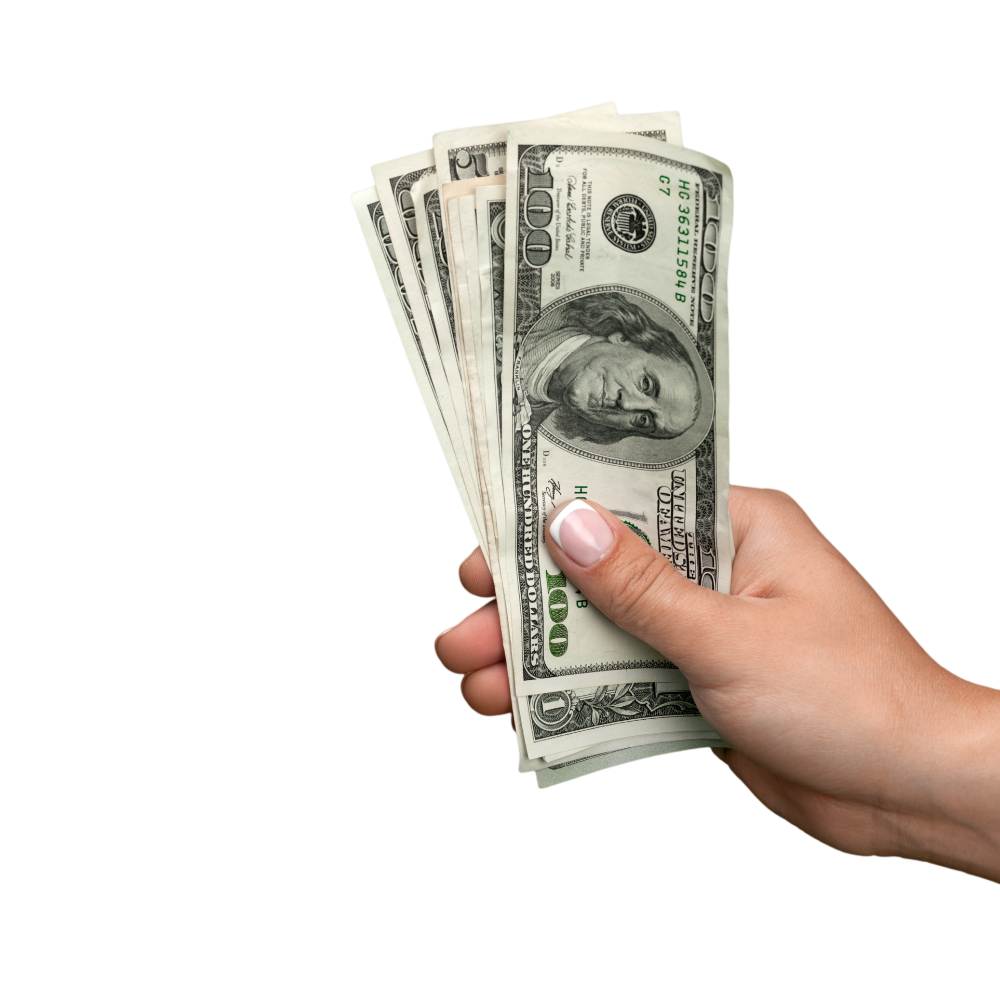
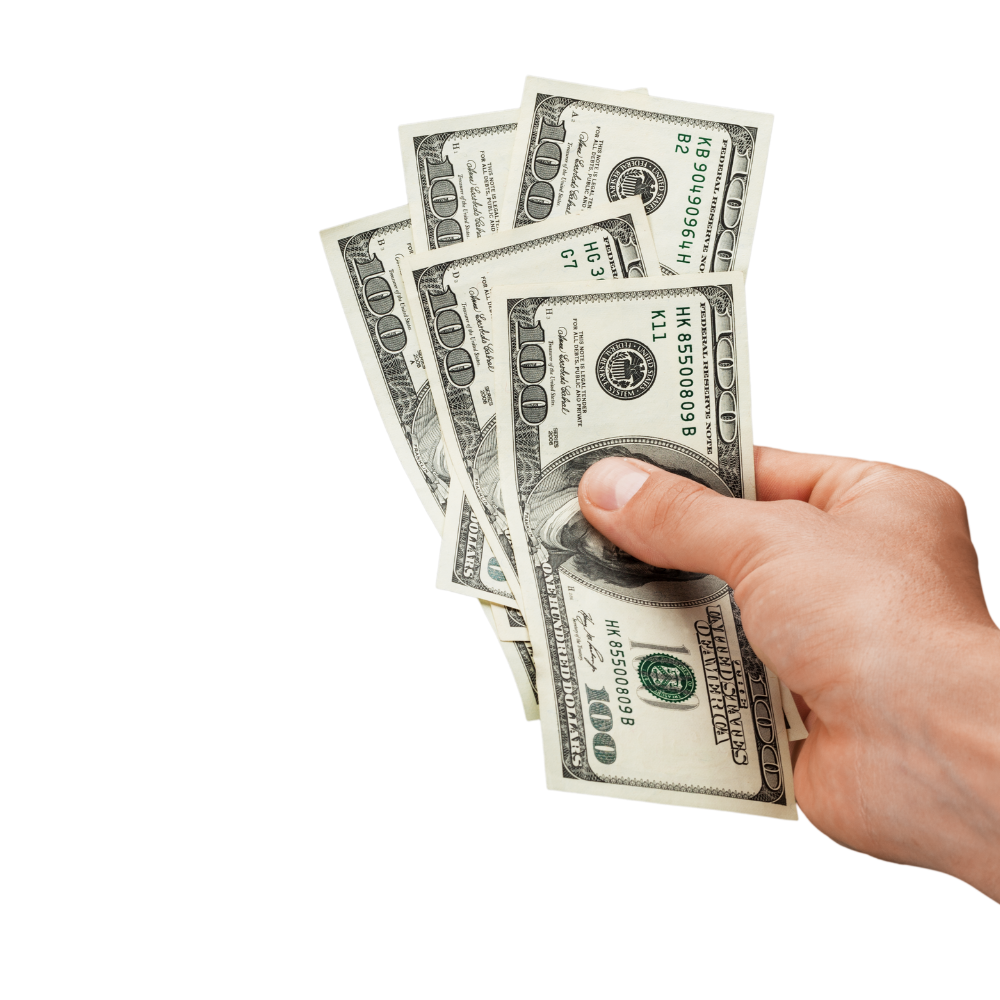
Copy + asset tweaks
- HowItWorks step 3: mention other payment methods alongside PayPal/Zelle
- Drop review counts to 900 across Hero stats, social proof, and Trustpilot badge
- Replace cash.png with updated image

Changed region(s): [[0.31, 0.062, 1.0, 0.93]]

diff --git a/src/components/Hero.jsx b/src/components/Hero.jsx
@@ -90,7 +90,7 @@ export default function Hero() {
             <div className="flex gap-0.5 mb-0.5">
               {[...Array(5)].map((_, i) => <Star key={i} className="w-3.5 h-3.5 fill-yellow-400 text-yellow-400" />)}
             </div>
-            <p className="text-gray-500 text-xs font-semibold">4.9 / 5 · 1,200+ verified sellers</p>
+            <p className="text-gray-500 text-xs font-semibold">4.9 / 5 · 900+ verified sellers</p>
           </div>
         </div>
 
@@ -123,7 +123,7 @@ export default function Hero() {
           {[
             { v: '1.2M',   l: 'Paid to sellers'      },
             { v: '6,000+', l: 'Happy customers'      },
-            { v: '1,200',  l: 'Verified reviews'     },
+            { v: '900',    l: 'Verified reviews'     },
             { v: '24hrs',  l: 'Avg payout time'      },
           ].map(({ v, l }, i) => (
             <div key={l}

diff --git a/src/components/HowItWorks.jsx b/src/components/HowItWorks.jsx
@@ -78,7 +78,7 @@ function PaidMock() {
 const steps = [
   { n:'01', icon: Clock,      title: 'Get your Instant Quote',  desc: 'Book a free 10-min call. We evaluate your device and lock in a firm quote before you say "goodbye, clutter."', mock: <QuoteMock /> },
   { n:'02', icon: Package,    title: 'Ship for Free',           desc: 'Print the free, trackable prepaid label and send it off. Fully insured. We handle the rest.', mock: <ShipMock /> },
-  { n:'03', icon: DollarSign, title: 'Get Paid Fast',           desc: 'No listings, no strangers, no waiting. Get paid within 24 hours of inspection — PayPal or Zelle.', mock: <PaidMock /> },
+  { n:'03', icon: DollarSign, title: 'Get Paid Fast',           desc: 'No listings, no strangers, no waiting. Get paid within 24 hours of inspection — PayPal, Zelle, or other payment methods if needed.', mock: <PaidMock /> },
 ];
 
 export default function HowItWorks() {

diff --git a/src/components/Testimonials.jsx b/src/components/Testimonials.jsx
@@ -67,7 +67,7 @@ export default function Testimonials() {
                   </div>
                 ))}
               </div>
-              <div className="text-[11px] text-gray-500 font-semibold">4.9 out of 5 · 2,400+ reviews</div>
+              <div className="text-[11px] text-gray-500 font-semibold">4.9 out of 5 · 900 reviews</div>
             </div>
           </div>
         </div>